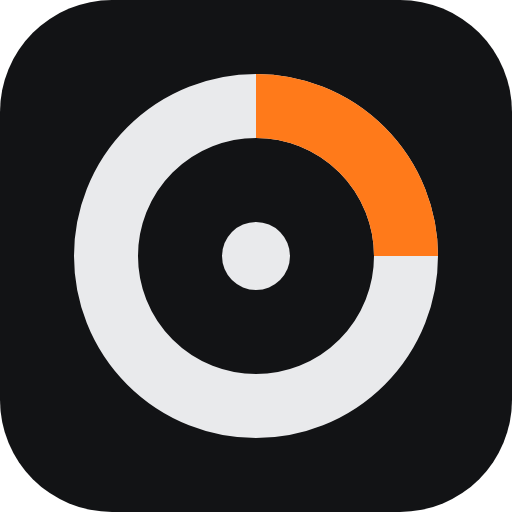
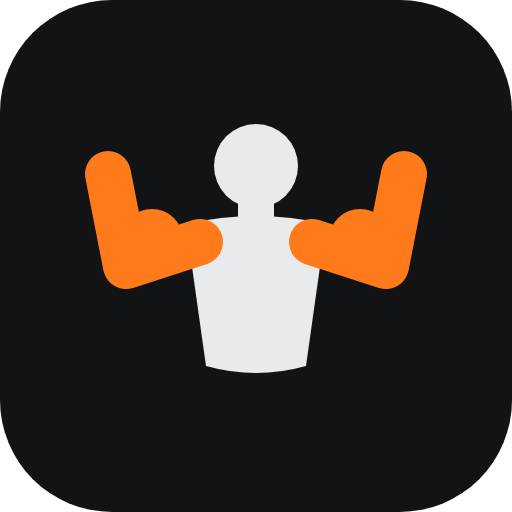
Icono doble bíceps y pestañas con el color del día
- Icono de la app: figura sacando brazo con los brazos en naranja (PNG regenerados).
- Pestañas nuevas: contorno en las inactivas; la activa va rellena dentro de una
  píldora del color del día de rutina que tienes en Entrenar (rojo lunes, azul
  martes, amarillo jueves, verde domingo, violeta alternativo).
- Versión de Claude: portada con el icono para la galería y los enlaces.

Claude-Session: https://claude.ai/code/session_014PkRCioZKJrJBmusroirgR

diff --git a/src/components/Iconos.tsx b/src/components/Iconos.tsx
@@ -31,3 +31,131 @@ export const IcoSubir = (p: { size?: number }) => <I {...p} d="M12 20V9M8 13l4-4
 export const IcoChat = (p: { size?: number }) => <I {...p} d="M4 5h16v11H9l-5 4zM8 9.5h8M8 12.5h5" />;
 export const IcoCamara = (p: { size?: number }) => <I {...p} d="M4 8h3l2-3h6l2 3h3v11H4zM12 10.5a3 3 0 1 0 0 6a3 3 0 1 0 0-6" />;
 export const IcoEnviar = (p: { size?: number }) => <I {...p} sw={2.2} d="M12 19V5M6 11l6-6 6 6" />;
+
+// Pestañas: contorno cuando no están activas, relleno cuando sí (los huecos toman el color de la píldora).
+type Tab = { size?: number; relleno?: boolean };
+const T = ({ size = 24, children }: { size?: number; children: preact.ComponentChildren }) => (
+  <svg width={size} height={size} viewBox="0 0 24 24" aria-hidden="true">{children}</svg>
+);
+const LN = { fill: 'none', stroke: 'currentColor', 'stroke-width': 1.8, 'stroke-linecap': 'round', 'stroke-linejoin': 'round' } as const;
+
+export const TabEntrenar = ({ size, relleno }: Tab) => (
+  <T size={size}>
+    {relleno ? (
+      <g fill="currentColor">
+        <rect x="1.5" y="8.5" width="3.5" height="7" rx="1.2" />
+        <rect x="5" y="5.5" width="4" height="13" rx="1.4" />
+        <rect x="15" y="5.5" width="4" height="13" rx="1.4" />
+        <rect x="19" y="8.5" width="3.5" height="7" rx="1.2" />
+        <rect x="8.5" y="10.8" width="7" height="2.4" rx="1" />
+      </g>
+    ) : (
+      <g {...LN}>
+        <rect x="2" y="9" width="3" height="6" rx="1" />
+        <rect x="5" y="6.5" width="3.5" height="11" rx="1.2" />
+        <rect x="15.5" y="6.5" width="3.5" height="11" rx="1.2" />
+        <rect x="19" y="9" width="3" height="6" rx="1" />
+        <path d="M8.5 12h7" />
+      </g>
+    )}
+  </T>
+);
+
+const BOCADILLO = 'M4 6.5A2.5 2.5 0 0 1 6.5 4h11A2.5 2.5 0 0 1 20 6.5v7a2.5 2.5 0 0 1-2.5 2.5H10l-5 4v-4.3A2.5 2.5 0 0 1 4 13.5z';
+const CHISPA = 'M12 6.8l.9 2.3 2.3.9-2.3.9-.9 2.3-.9-2.3-2.3-.9 2.3-.9z';
+export const TabClaude = ({ size, relleno }: Tab) => (
+  <T size={size}>
+    {relleno ? (
+      <>
+        <path fill="currentColor" d={BOCADILLO} />
+        <path class="hueco-f" d={CHISPA} />
+      </>
+    ) : (
+      <>
+        <path {...LN} d={BOCADILLO} />
+        <path fill="currentColor" d={CHISPA} />
+      </>
+    )}
+  </T>
+);
+
+export const TabHistorial = ({ size, relleno }: Tab) => (
+  <T size={size}>
+    {relleno ? (
+      <>
+        <rect x="3" y="4.5" width="18" height="16.5" rx="2.8" fill="currentColor" />
+        <path d="M8 2.6v4M16 2.6v4" stroke="currentColor" stroke-width="2" stroke-linecap="round" />
+        <path class="hueco-s" d="M3 10h18" stroke-width="1.6" />
+        <g class="hueco-f">
+          <circle cx="8" cy="14.5" r="1.2" />
+          <circle cx="12" cy="14.5" r="1.2" />
+          <circle cx="16" cy="14.5" r="1.2" />
+        </g>
+      </>
+    ) : (
+      <>
+        <g {...LN}>
+          <rect x="3.5" y="5" width="17" height="15.5" rx="2.5" />
+          <path d="M3.5 10h17M8 3v4M16 3v4" />
+        </g>
+        <g fill="currentColor">
+          <circle cx="8" cy="14" r="1.1" />
+          <circle cx="12" cy="14" r="1.1" />
+          <circle cx="16" cy="14" r="1.1" />
+        </g>
+      </>
+    )}
+  </T>
+);
+
+export const TabProgreso = ({ size, relleno }: Tab) => (
+  <T size={size}>
+    {relleno ? (
+      <g fill="currentColor">
+        <rect x="3.5" y="12.5" width="5" height="8" rx="1.4" />
+        <rect x="9.5" y="8.5" width="5" height="12" rx="1.4" />
+        <rect x="15.5" y="3.5" width="5" height="17" rx="1.4" />
+      </g>
+    ) : (
+      <g {...LN}>
+        <rect x="4" y="13" width="4" height="7" rx="1" />
+        <rect x="10" y="9" width="4" height="11" rx="1" />
+        <rect x="16" y="4" width="4" height="16" rx="1" />
+      </g>
+    )}
+  </T>
+);
+
+export const TabNotas = ({ size, relleno }: Tab) => (
+  <T size={size}>
+    {relleno ? (
+      <>
+        <path fill="currentColor" d="M5.5 2.5h8.8l5.2 5.2V21.5H5.5z" />
+        <path class="hueco-s" d="M14 2.8v5.2h5.2M9 12.5h7M9 16.5h5" fill="none" stroke-width="1.6" stroke-linecap="round" />
+      </>
+    ) : (
+      <g {...LN}>
+        <path d="M6 3h8l5 5v13H6z" />
+        <path d="M14 3v5h5M9 12.5h7M9 16.5h5" />
+      </g>
+    )}
+  </T>
+);
+
+export const TabAjustes = ({ size, relleno }: Tab) => (
+  <T size={size}>
+    {relleno ? (
+      <>
+        <path d="M4 7h16M4 17h16" stroke="currentColor" stroke-width="2.2" stroke-linecap="round" />
+        <circle cx="9" cy="7" r="3.2" fill="currentColor" />
+        <circle cx="15" cy="17" r="3.2" fill="currentColor" />
+      </>
+    ) : (
+      <g {...LN}>
+        <path d="M4 7h16M4 17h16" />
+        <circle class="hueco-f" cx="9" cy="7" r="2.6" />
+        <circle class="hueco-f" cx="15" cy="17" r="2.6" />
+      </g>
+    )}
+  </T>
+);

diff --git a/src/app.tsx b/src/app.tsx
@@ -1,7 +1,10 @@
 import { Descanso } from './components/Descanso';
-import { IcoAjustes, IcoChat, IcoDisco, IcoGrafica, IcoLista, IcoNota } from './components/Iconos';
+import { TabAjustes, TabClaude, TabEntrenar, TabHistorial, TabNotas, TabProgreso } from './components/Iconos';
+import { dia as getDia } from './data/rutina';
+import { diaSugerido } from './lib/analisis';
+import { hoyISO } from './lib/formato';
 import { errorGuardado } from './lib/db';
-import { borrador, cargado, seriesHechas } from './lib/estado';
+import { borrador, cargado, diaEnPantalla, seriesHechas, sesiones } from './lib/estado';
 import { ir, ruta } from './lib/ruta';
 import { Ajustes } from './views/Ajustes';
 import { Chat } from './views/Chat';
@@ -12,12 +15,12 @@ import { Notas } from './views/Notas';
 import { Progreso } from './views/Progreso';
 
 const TABS = [
-  { v: 'entrenar', nombre: 'Entrenar', Ico: IcoDisco },
-  ...(__CLAUDE__ ? [{ v: 'claude' as const, nombre: 'Claude', Ico: IcoChat }] : []),
-  { v: 'historial', nombre: 'Historial', Ico: IcoLista },
-  { v: 'progreso', nombre: 'Progreso', Ico: IcoGrafica },
-  { v: 'notas', nombre: 'Notas', Ico: IcoNota },
-  { v: 'ajustes', nombre: 'Ajustes', Ico: IcoAjustes }
+  { v: 'entrenar', nombre: 'Entrenar', Ico: TabEntrenar },
+  ...(__CLAUDE__ ? [{ v: 'claude' as const, nombre: 'Claude', Ico: TabClaude }] : []),
+  { v: 'historial', nombre: 'Historial', Ico: TabHistorial },
+  { v: 'progreso', nombre: 'Progreso', Ico: TabProgreso },
+  { v: 'notas', nombre: 'Notas', Ico: TabNotas },
+  { v: 'ajustes', nombre: 'Ajustes', Ico: TabAjustes }
 ] as const;
 
 export function App({ actualizar }: { actualizar?: () => void }) {
@@ -25,6 +28,8 @@ export function App({ actualizar }: { actualizar?: () => void }) {
   const r = ruta.value;
   const activa = r.v === 'ejercicio' ? 'entrenar' : r.v === 'sesion' ? 'historial' : r.v;
   const enCurso = seriesHechas(borrador.value) > 0;
+  // La pestaña activa lleva el color del día de rutina que tienes delante.
+  const diaTab = diaEnPantalla.value ?? borrador.value?.dia ?? diaSugerido(sesiones.value, hoyISO());
   return (
     <>
       <main class="principal">
@@ -39,10 +44,12 @@ export function App({ actualizar }: { actualizar?: () => void }) {
         {r.v === 'sesion' && <DetalleSesion id={r.id} key={r.id} />}
       </main>
       <Descanso />
-      <nav class={`tabs${TABS.length > 5 ? ' seis' : ''}`} aria-label="Secciones">
+      <nav class={`tabs${TABS.length > 5 ? ' seis' : ''}`} aria-label="Secciones" style={{ '--tab-dia': getDia(diaTab).color }}>
         {TABS.map(({ v, nombre, Ico }) => (
           <button key={v} class={`tab ${activa === v ? 'activa' : ''}`} onClick={() => ir({ v })} aria-current={activa === v ? 'page' : undefined}>
-            <Ico size={22} />
+            <span class="pildora">
+              <Ico size={24} relleno={activa === v} />
+            </span>
             <span>{nombre}</span>
             {v === 'entrenar' && enCurso && activa !== 'entrenar' && <span class="tab-punto" aria-label="sesión en curso" />}
           </button>

diff --git a/src/views/Entrenar.tsx b/src/views/Entrenar.tsx
@@ -1,4 +1,4 @@
-import { useMemo, useRef, useState } from 'preact/hooks';
+import { useEffect, useMemo, useRef, useState } from 'preact/hooks';
 import { MapaMuscular } from '../components/MapaMuscular';
 import { Hoja } from '../components/Hoja';
 import { IcoAviso, IcoBaja, IcoCheck, IcoDcha, IcoIgual, IcoMas, IcoMenos, IcoSube, IcoX } from '../components/Iconos';
@@ -6,7 +6,7 @@ import { DIAS, PERFIL, bloqueDe, dia as getDia, duracionEstimada, ejercicio, eti
 import { conPesoCorporal } from '../lib/cargas';
 import { avisos, diaSugerido, textoSeries } from '../lib/analisis';
 import {
-  ajustes, borrador, descargaActiva, escalera, medidas, notasEjercicio, nuevoBorrador, pesoCorporal, seriesHechas, sesiones, setBorrador, type Borrador
+  ajustes, borrador, descargaActiva, diaEnPantalla, escalera, medidas, notasEjercicio, nuevoBorrador, pesoCorporal, seriesHechas, sesiones, setBorrador, type Borrador
 } from '../lib/estado';
 import { fechaCorta, fechaLarga, hoyISO, kg as fkg, lunesDe, mmss } from '../lib/formato';
 import { calentamientoGenerico, e1rm, planificar, repsCon, resolverAlt, type Plan } from '../lib/progresion';
@@ -55,6 +55,9 @@ export function Entrenar() {
   const descarga = b?.descarga ?? descargaActiva();
   const pc = pesoCorporal.value;
   const et = etiquetas(diaId);
+  useEffect(() => {
+    diaEnPantalla.value = diaId;
+  }, [diaId]);
 
   const base = useMemo(
     () => sesiones.value.filter((s) => s.id !== b?.editando && (!b || s.fecha <= b.fecha)),

diff --git a/src/styles/app.css b/src/styles/app.css
@@ -323,8 +323,16 @@ body.sin-scroll { overflow: hidden; }
   border-top: 1px solid var(--line);
 }
 .tab { position: relative; display: flex; flex-direction: column; align-items: center; justify-content: center; gap: 3px; font-size: 11px; color: var(--text-3); }
-.tab.activa { color: var(--text); }
-.tab-punto { position: absolute; top: 9px; left: calc(50% + 9px); width: 8px; height: 8px; border-radius: 50%; background: var(--accent); }
+.tab.activa { color: var(--text); font-weight: 600; }
+.tab .pildora { display: grid; place-items: center; width: 50px; height: 30px; border-radius: 999px; }
+.tab.activa .pildora {
+  --hueco: color-mix(in srgb, var(--tab-dia, var(--accent)) 24%, var(--surface));
+  background: var(--hueco); color: var(--tab-dia, var(--accent));
+}
+.hueco-f { fill: var(--hueco, var(--surface)); }
+.hueco-s { stroke: var(--hueco, var(--surface)); }
+@media (prefers-reduced-motion: no-preference) { .tab .pildora { transition: background-color .18s; } }
+.tab-punto { position: absolute; top: 5px; left: calc(50% + 16px); width: 8px; height: 8px; border-radius: 50%; background: var(--accent); }
 
 /* ── Ficha ── */
 .cab-sub { display: flex; align-items: center; gap: 6px; margin-left: -8px; }

diff --git a/src/lib/estado.ts b/src/lib/estado.ts
@@ -60,6 +60,8 @@ export const diario = signal<EntradaDiario[]>([]);
 export const medidas = signal<Medida[]>([]);
 export const notasEjercicio = signal<Record<string, string>>({});
 export const borrador = signal<Borrador | null>(null);
+/** Día de rutina que se ve en Entrenar (para el color de la pestaña activa). */
+export const diaEnPantalla = signal<DiaId | null>(null);
 export const verificacion = signal<{ sesiones: number; series: number } | null>(null);
 
 export const escalera = (c: Carga) => new Escalera(ajustes.value.escalones[c] ?? PERFIL.escalones?.[c] ?? ESCALONES_POR_DEFECTO[c]);

diff --git a/vite.config.ts b/vite.config.ts
@@ -62,7 +62,7 @@ export default defineConfig({
       },
       workbox: {
         globPatterns: ['**/*.{js,css,html,svg,png,woff2,json}'],
-        globIgnores: otros.map((p) => `**/iconos/${p}/**`),
+        globIgnores: [...otros.map((p) => `**/iconos/${p}/**`), '**/portada.png'],
         navigateFallback: 'index.html',
         // La app de Rodrigo vive en la carpeta padre: no debe responder por las de los demás.
         // La app de comidas (/dieta/) tampoco: tiene su propio service worker.
